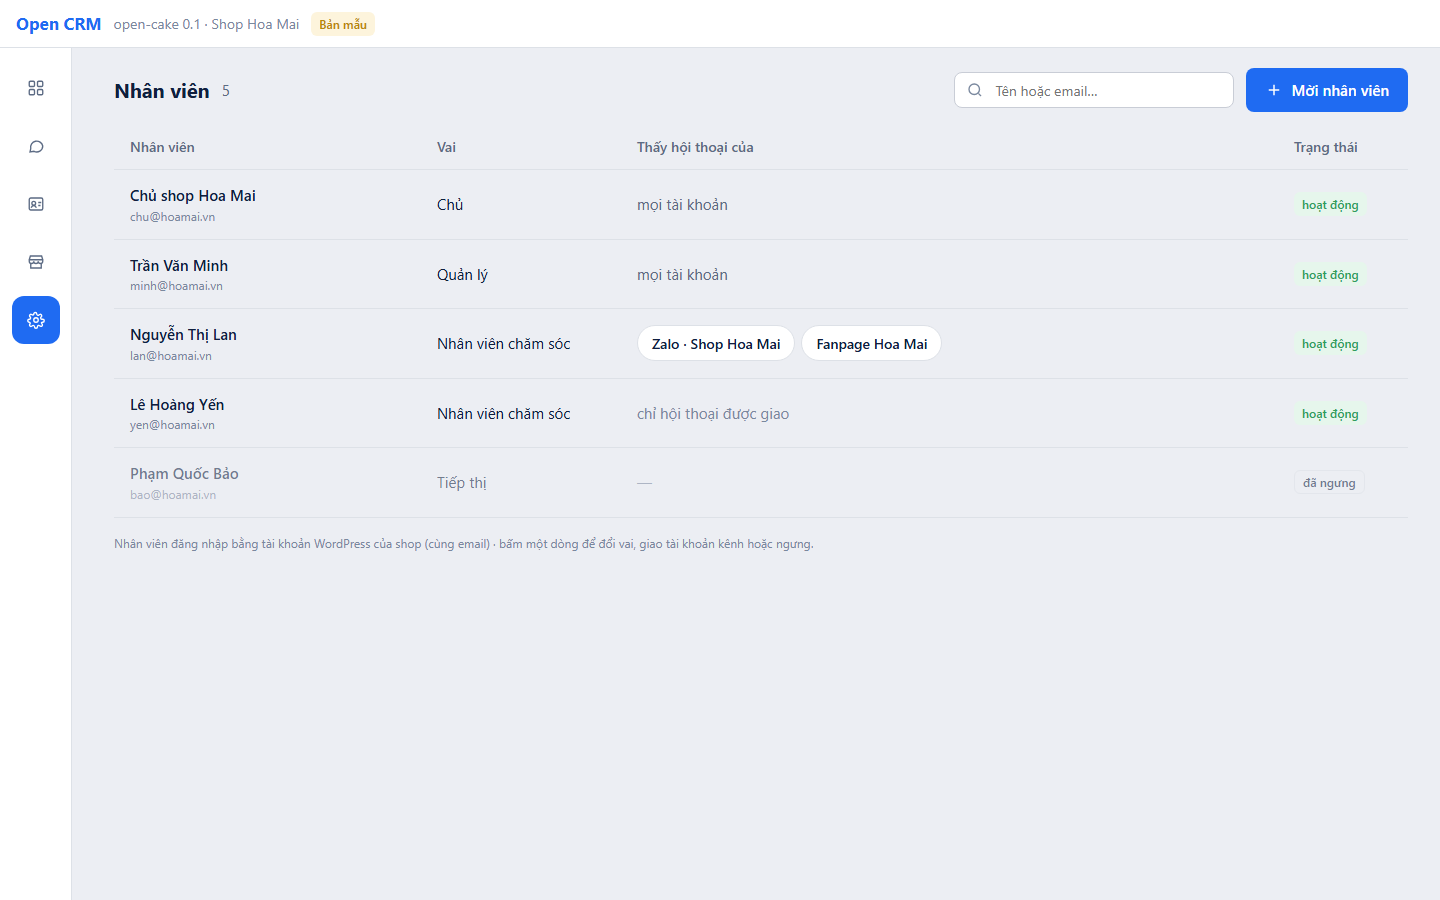
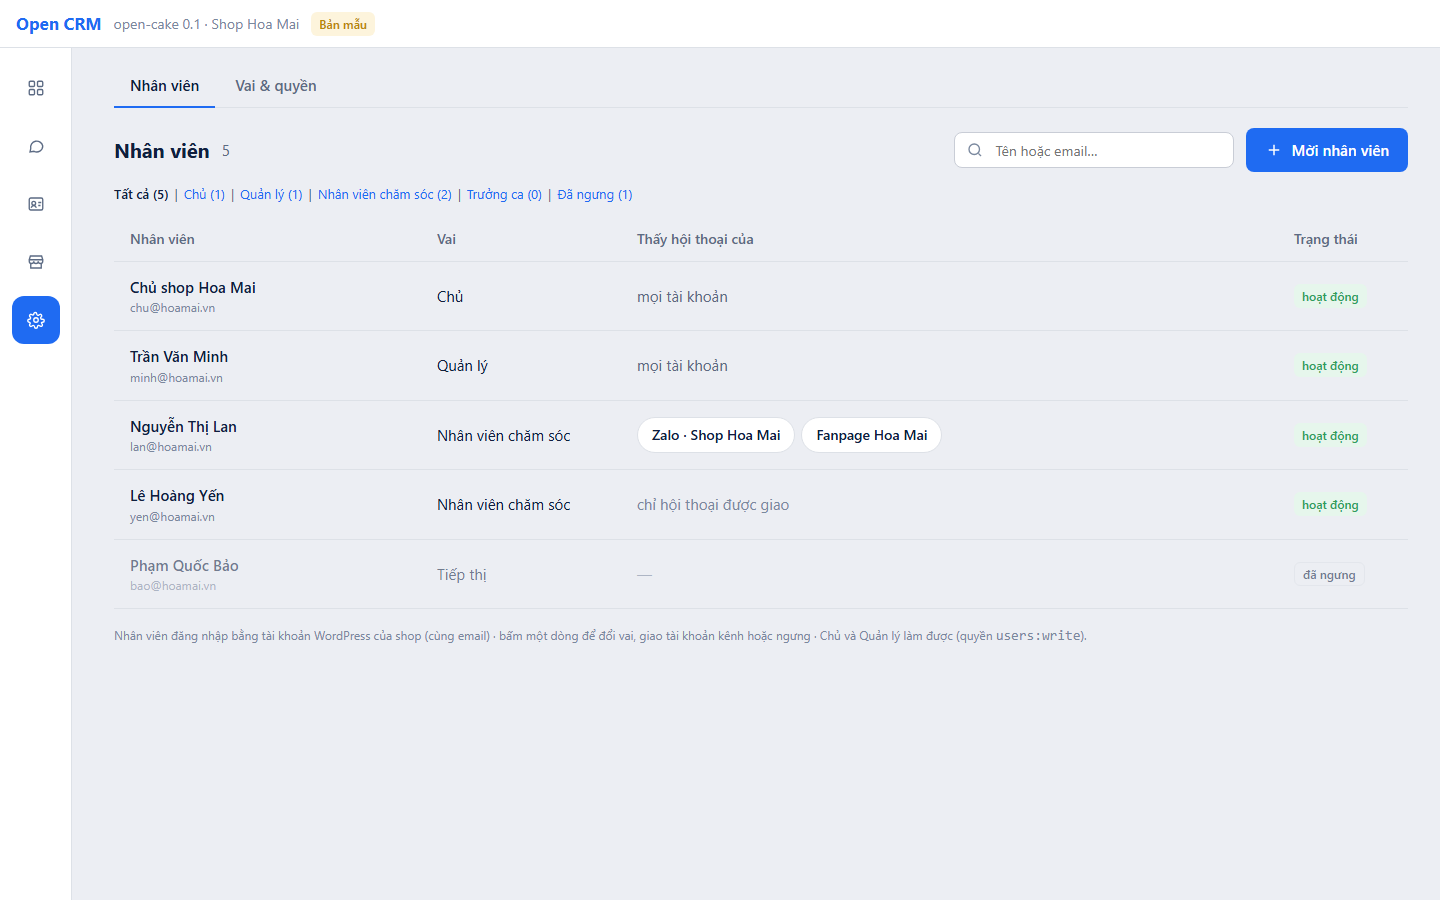
docs(PHASE-004 S004-7): thêm mockup Vai & quyền (ma trận, vai riêng) + thiết kế phân quyền ba lớp

diff --git a/docs/phases/PHASE-004-NGUOI-DUNG-QUYEN-BANG-CHUNG/mockup/index.html b/docs/phases/PHASE-004-NGUOI-DUNG-QUYEN-BANG-CHUNG/mockup/index.html
@@ -1,5 +1,5 @@
 <!doctype html>
-<!-- [2026-11-24 09:57 PM Johnny Chu - Chu Hoàng Anh] PHASE-004 S004-7 — mockup lean màn Cài đặt › Nhân viên cho chủ duyệt trước khi code: danh sách, sửa (vai + tài khoản kênh), ngưng, mời. Dùng tokens.css / chat.css thật; số liệu GIẢ LẬP. -->
+<!-- [2026-11-24 10:10 PM Johnny Chu - Chu Hoàng Anh] PHASE-004 S004-7 — mockup lean màn Cài đặt › Nhân viên cho chủ duyệt trước khi code: danh sách, sửa (vai + tài khoản kênh), ngưng, mời. Dùng tokens.css / chat.css thật; số liệu GIẢ LẬP. -->
 <html lang="vi">
 <head>
 <meta charset="utf-8">
@@ -59,6 +59,22 @@
   .hi { color: var(--warning); font-size: 12px; margin-left: 6px; }
   .who b { font-weight: 500; } .who .xs { display: block; }
   .chiprow { display: flex; gap: 6px; flex-wrap: wrap; }
+  .wpf { display: flex; gap: 6px; font-size: 13px; color: var(--muted-foreground); padding: 0 32px 12px; }
+  .wpf a { color: var(--primary); } .wpf b { color: var(--foreground); font-weight: 600; }
+  .utab.on { color: var(--foreground); border-bottom-color: var(--primary); }
+  .mx { width: 100%; border-collapse: collapse; font-size: 14px; }
+  .mx th, .mx td { padding: 8px 10px; border-bottom: 1px solid var(--border); text-align: center; }
+  .mx th:first-child, .mx td:first-child { text-align: left; }
+  .mx thead th { font-weight: 500; color: var(--muted-foreground); font-size: 13px; vertical-align: bottom; }
+  .mx thead th .xs { display: block; font-weight: 400; }
+  .mx .grp td { background: var(--muted); font-size: 12px; text-transform: uppercase; letter-spacing: .04em; color: var(--muted-foreground); font-weight: 600; text-align: left; padding: 5px 10px; }
+  .mx code { font-size: 11px; color: var(--subtle-foreground); margin-left: 6px; }
+  .mx .cus { background: var(--primary-soft); }
+  .c { display: inline-grid; place-items: center; width: 22px; height: 22px; border-radius: 6px; font-size: 13px; font-weight: 700; color: var(--subtle-foreground); }
+  .c.inh { color: var(--primary); }
+  .c.al { background: var(--primary); color: #fff; } .c.dn { background: var(--destructive); color: #fff; } .c.no { border: 1.5px solid var(--border); }
+  .legend { display: flex; gap: 16px; align-items: center; font-size: 12px; color: var(--muted-foreground); }
+  .legend span { display: inline-flex; gap: 6px; align-items: center; }
 </style>
 
 <!-- ① NHÂN VIÊN — một bảng: tên, vai, thấy hội thoại của, trạng thái. Không thẻ đếm, không nhóm, không "online". -->
@@ -67,12 +83,14 @@
   <div class="body">
     <nav class="rail2"><span class="nb"><svg class="ico"><use href="#i-grid"/></svg></span><span class="nb"><svg class="ico"><use href="#i-chat"/></svg></span><span class="nb"><svg class="ico"><use href="#i-contact"/></svg></span><span class="nb"><svg class="ico"><use href="#i-store"/></svg></span><span class="nb on"><svg class="ico"><use href="#i-cog"/></svg></span></nav>
     <main class="page flush">
+      <div style="padding:16px 32px 0"><div class="utabs"><span class="utab on">Nhân viên</span><span class="utab">Vai &amp; quyền</span></div></div>
       <div class="tbar">
         <h1 class="h2" style="margin:0">Nhân viên</h1><span class="muted">5</span>
         <span class="grow"></span>
         <div class="search" style="width:280px"><svg><use href="#i-search"/></svg><input class="input sm" placeholder="Tên hoặc email…"></div>
         <button class="btn pri"><svg class="ico"><use href="#i-plus"/></svg>Mời nhân viên</button>
       </div>
+      <div class="wpf"><b>Tất cả (5)</b> | <a>Chủ (1)</a> | <a>Quản lý (1)</a> | <a>Nhân viên chăm sóc (2)</a> | <a>Trưởng ca (0)</a> | <a>Đã ngưng (1)</a></div>
       <div style="padding:0 32px">
         <table class="tbl">
           <thead><tr><th>Nhân viên</th><th style="width:200px">Vai</th><th>Thấy hội thoại của</th><th style="width:130px">Trạng thái</th></tr></thead>
@@ -84,7 +102,7 @@
             <tr style="opacity:.55"><td class="who"><b>Phạm Quốc Bảo</b><span class="xs subtle">bao@hoamai.vn</span></td><td>Tiếp thị</td><td class="subtle">—</td><td><span class="badge out">đã ngưng</span></td></tr>
           </tbody>
         </table>
-        <div class="xs subtle mt16">Nhân viên đăng nhập bằng tài khoản WordPress của shop (cùng email) · bấm một dòng để đổi vai, giao tài khoản kênh hoặc ngưng.</div>
+        <div class="xs subtle mt16">Nhân viên đăng nhập bằng tài khoản WordPress của shop (cùng email) · bấm một dòng để đổi vai, giao tài khoản kênh hoặc ngưng · Chủ và Quản lý làm được (quyền <code>users:write</code>).</div>
       </div>
     </main>
   </div>
@@ -106,6 +124,7 @@
         <div class="role on"><span class="dot"></span><div><b>Nhân viên chăm sóc</b><div class="xs subtle">Đọc, trả lời, gắn nhãn hội thoại của tài khoản được giao.</div></div></div>
         <div class="role"><span class="dot"></span><div><b>Tiếp thị</b><div class="xs subtle">Danh bạ, hàng hoá, giá — không đọc nội dung tin.</div></div></div>
         <div class="role"><span class="dot"></span><div><b>Chỉ xem</b><div class="xs subtle">Danh bạ, báo cáo — không đọc nội dung tin.</div></div></div>
+        <div class="role"><span class="dot"></span><div><b>Trưởng ca</b> <span class="badge out">vai riêng</span><div class="xs subtle">Nhân viên chăm sóc + xuất danh bạ · cấm ghép khách.</div></div></div>
       </div>
       <label class="sm muted" style="display:block;margin-top:20px">Thấy hội thoại của</label>
       <div class="mt8">
@@ -161,6 +180,98 @@
       <div class="xs subtle mt16">Hoa vào Open CRM bằng tài khoản WordPress của shop có đúng email này — không cần mật khẩu riêng.</div>
     </div>
     <div class="ft"><button class="btn">Huỷ</button><button class="btn pri">Mời</button></div>
+  </div></div>
+</section>
+<!-- vai-quyen -->
+<section class="frame app" id="vai-quyen">
+  <header class="titlebar"><span class="brand">Open CRM</span><span class="ver">open-cake 0.1 · Shop Hoa Mai</span><span class="badge warn">Bản mẫu</span><span class="grow"></span></header>
+  <div class="body">
+    <nav class="rail2"><span class="nb"><svg class="ico"><use href="#i-grid"/></svg></span><span class="nb"><svg class="ico"><use href="#i-chat"/></svg></span><span class="nb"><svg class="ico"><use href="#i-contact"/></svg></span><span class="nb"><svg class="ico"><use href="#i-store"/></svg></span><span class="nb on"><svg class="ico"><use href="#i-cog"/></svg></span></nav>
+    <main class="page flush">
+      <div style="padding:16px 32px 0"><div class="utabs"><span class="utab">Nhân viên</span><span class="utab on">Vai &amp; quyền</span></div></div>
+      <div class="tbar">
+        <h1 class="h2" style="margin:0">Vai &amp; quyền</h1>
+        <span class="grow"></span>
+        <div class="legend"><span><span class="c">✓</span>vai hệ thống</span><span><span class="c inh">✓</span>từ vai nền</span><span><span class="c al">✓</span>Cho thêm</span><span><span class="c dn">⊘</span>Cấm (thắng)</span><span class="hi">⚠ rủi ro cao</span></div>
+        <button class="btn pri"><svg class="ico"><use href="#i-plus"/></svg>Vai riêng</button>
+      </div>
+      <div style="padding:0 32px">
+        <table class="mx">
+          <thead><tr><th>Quyền</th><th>Chủ</th><th>Quản lý</th><th>NV chăm sóc</th><th>Tiếp thị</th><th>Chỉ xem</th><th class="cus">Trưởng ca<span class="xs subtle">nền: NV chăm sóc</span></th></tr></thead>
+          <tbody>
+<tr class="grp"><td colspan="7">Hộp thư</td></tr>
+<tr><td>Xem hội thoại được giao<code>cake:inbox-xem</code></td><td><span class="c">✓</span></td><td><span class="c">✓</span></td><td><span class="c">✓</span></td><td><span class="c">·</span></td><td><span class="c">·</span></td><td class="cus"><span class="c inh">✓</span></td></tr>
+<tr><td>Trả lời, gắn nhãn<code>cake:inbox-lap</code></td><td><span class="c">✓</span></td><td><span class="c">✓</span></td><td><span class="c">✓</span></td><td><span class="c">·</span></td><td><span class="c">·</span></td><td class="cus"><span class="c inh">✓</span></td></tr>
+<tr><td>Xem mọi hộp thư <span class="hi">⚠</span><code>cake:all-inbox-xem</code></td><td><span class="c">✓</span></td><td><span class="c">✓</span></td><td><span class="c">·</span></td><td><span class="c">·</span></td><td><span class="c">·</span></td><td class="cus"><span class="c no"></span></td></tr>
+<tr class="grp"><td colspan="7">Danh bạ</td></tr>
+<tr><td>Xem khách<code>cake:contacts-xem</code></td><td><span class="c">✓</span></td><td><span class="c">✓</span></td><td><span class="c">✓</span></td><td><span class="c">✓</span></td><td><span class="c">✓</span></td><td class="cus"><span class="c inh">✓</span></td></tr>
+<tr><td>Sửa khách<code>cake:contacts-sua</code></td><td><span class="c">✓</span></td><td><span class="c">✓</span></td><td><span class="c">✓</span></td><td><span class="c">✓</span></td><td><span class="c">·</span></td><td class="cus"><span class="c inh">✓</span></td></tr>
+<tr><td>Ghép / tách khách <span class="hi">⚠</span><code>cake:contacts-gop</code></td><td><span class="c">✓</span></td><td><span class="c">✓</span></td><td><span class="c">·</span></td><td><span class="c">·</span></td><td><span class="c">·</span></td><td class="cus"><span class="c dn">⊘</span></td></tr>
+<tr><td>Xuất danh bạ <span class="hi">⚠</span><code>cake:contacts-xuat</code></td><td><span class="c">✓</span></td><td><span class="c">✓</span></td><td><span class="c">·</span></td><td><span class="c">·</span></td><td><span class="c">·</span></td><td class="cus"><span class="c al">✓</span></td></tr>
+<tr class="grp"><td colspan="7">Hàng hoá</td></tr>
+<tr><td>Thêm, sửa hàng<code>cake:catalog-lap</code></td><td><span class="c">✓</span></td><td><span class="c">✓</span></td><td><span class="c">·</span></td><td><span class="c">✓</span></td><td><span class="c">·</span></td><td class="cus"><span class="c no"></span></td></tr>
+<tr><td>Sửa giá<code>cake:catalog-gia</code></td><td><span class="c">✓</span></td><td><span class="c">✓</span></td><td><span class="c">·</span></td><td><span class="c">✓</span></td><td><span class="c">·</span></td><td class="cus"><span class="c no"></span></td></tr>
+<tr class="grp"><td colspan="7">Kênh & nhân viên</td></tr>
+<tr><td>Kết nối kênh <span class="hi">⚠</span><code>cake:channels-lap</code></td><td><span class="c">✓</span></td><td><span class="c">·</span></td><td><span class="c">·</span></td><td><span class="c">·</span></td><td><span class="c">·</span></td><td class="cus"><span class="c no"></span></td></tr>
+<tr><td>Mời, đổi vai, giao tài khoản kênh <span class="hi">⚠</span><code>users:write</code></td><td><span class="c">✓</span></td><td><span class="c">✓</span></td><td><span class="c">·</span></td><td><span class="c">·</span></td><td><span class="c">·</span></td><td class="cus"><span class="c no"></span></td></tr>
+<tr><td>Sửa vai &amp; quyền <span class="hi">⚠</span><code>settings:write</code></td><td><span class="c">✓</span></td><td><span class="c">·</span></td><td><span class="c">·</span></td><td><span class="c">·</span></td><td><span class="c">·</span></td><td class="cus"><span class="c no"></span></td></tr>
+          </tbody>
+        </table>
+        <div class="xs subtle mt16">Vai hệ thống do phần mềm khai (mỗi phân hệ đăng ký quyền + vai lúc khởi động) — chỉ xem ở đây. Muốn khác: tạo <b>vai riêng</b> dựa trên một vai hệ thống, rồi bấm ô của cột đó để Cho / Cấm. Khoá API và AI không bao giờ nhận quyền ⚠.</div>
+      </div>
+    </main>
+  </div>
+</section>
+
+<!-- vai-rieng -->
+<section class="frame app" id="vai-rieng">
+  <header class="titlebar"><span class="brand">Open CRM</span><span class="ver">open-cake 0.1 · Shop Hoa Mai</span><span class="badge warn">Bản mẫu</span><span class="grow"></span></header>
+  <div class="body">
+    <nav class="rail2"><span class="nb"><svg class="ico"><use href="#i-grid"/></svg></span><span class="nb"><svg class="ico"><use href="#i-chat"/></svg></span><span class="nb"><svg class="ico"><use href="#i-contact"/></svg></span><span class="nb"><svg class="ico"><use href="#i-store"/></svg></span><span class="nb on"><svg class="ico"><use href="#i-cog"/></svg></span></nav>
+    <main class="page flush" style="opacity:.35">
+      <div style="padding:16px 32px 0"><div class="utabs"><span class="utab">Nhân viên</span><span class="utab on">Vai &amp; quyền</span></div></div>
+      <div class="tbar">
+        <h1 class="h2" style="margin:0">Vai &amp; quyền</h1>
+        <span class="grow"></span>
+        <div class="legend"><span><span class="c">✓</span>vai hệ thống</span><span><span class="c inh">✓</span>từ vai nền</span><span><span class="c al">✓</span>Cho thêm</span><span><span class="c dn">⊘</span>Cấm (thắng)</span><span class="hi">⚠ rủi ro cao</span></div>
+        <button class="btn pri"><svg class="ico"><use href="#i-plus"/></svg>Vai riêng</button>
+      </div>
+      <div style="padding:0 32px">
+        <table class="mx">
+          <thead><tr><th>Quyền</th><th>Chủ</th><th>Quản lý</th><th>NV chăm sóc</th><th>Tiếp thị</th><th>Chỉ xem</th><th class="cus">Trưởng ca<span class="xs subtle">nền: NV chăm sóc</span></th></tr></thead>
+          <tbody>
+<tr class="grp"><td colspan="7">Hộp thư</td></tr>
+<tr><td>Xem hội thoại được giao<code>cake:inbox-xem</code></td><td><span class="c">✓</span></td><td><span class="c">✓</span></td><td><span class="c">✓</span></td><td><span class="c">·</span></td><td><span class="c">·</span></td><td class="cus"><span class="c inh">✓</span></td></tr>
+<tr><td>Trả lời, gắn nhãn<code>cake:inbox-lap</code></td><td><span class="c">✓</span></td><td><span class="c">✓</span></td><td><span class="c">✓</span></td><td><span class="c">·</span></td><td><span class="c">·</span></td><td class="cus"><span class="c inh">✓</span></td></tr>
+<tr><td>Xem mọi hộp thư <span class="hi">⚠</span><code>cake:all-inbox-xem</code></td><td><span class="c">✓</span></td><td><span class="c">✓</span></td><td><span class="c">·</span></td><td><span class="c">·</span></td><td><span class="c">·</span></td><td class="cus"><span class="c no"></span></td></tr>
+<tr class="grp"><td colspan="7">Danh bạ</td></tr>
+<tr><td>Xem khách<code>cake:contacts-xem</code></td><td><span class="c">✓</span></td><td><span class="c">✓</span></td><td><span class="c">✓</span></td><td><span class="c">✓</span></td><td><span class="c">✓</span></td><td class="cus"><span class="c inh">✓</span></td></tr>
+<tr><td>Sửa khách<code>cake:contacts-sua</code></td><td><span class="c">✓</span></td><td><span class="c">✓</span></td><td><span class="c">✓</span></td><td><span class="c">✓</span></td><td><span class="c">·</span></td><td class="cus"><span class="c inh">✓</span></td></tr>
+<tr><td>Ghép / tách khách <span class="hi">⚠</span><code>cake:contacts-gop</code></td><td><span class="c">✓</span></td><td><span class="c">✓</span></td><td><span class="c">·</span></td><td><span class="c">·</span></td><td><span class="c">·</span></td><td class="cus"><span class="c dn">⊘</span></td></tr>
+<tr><td>Xuất danh bạ <span class="hi">⚠</span><code>cake:contacts-xuat</code></td><td><span class="c">✓</span></td><td><span class="c">✓</span></td><td><span class="c">·</span></td><td><span class="c">·</span></td><td><span class="c">·</span></td><td class="cus"><span class="c al">✓</span></td></tr>
+<tr class="grp"><td colspan="7">Hàng hoá</td></tr>
+<tr><td>Thêm, sửa hàng<code>cake:catalog-lap</code></td><td><span class="c">✓</span></td><td><span class="c">✓</span></td><td><span class="c">·</span></td><td><span class="c">✓</span></td><td><span class="c">·</span></td><td class="cus"><span class="c no"></span></td></tr>
+<tr><td>Sửa giá<code>cake:catalog-gia</code></td><td><span class="c">✓</span></td><td><span class="c">✓</span></td><td><span class="c">·</span></td><td><span class="c">✓</span></td><td><span class="c">·</span></td><td class="cus"><span class="c no"></span></td></tr>
+<tr class="grp"><td colspan="7">Kênh & nhân viên</td></tr>
+<tr><td>Kết nối kênh <span class="hi">⚠</span><code>cake:channels-lap</code></td><td><span class="c">✓</span></td><td><span class="c">·</span></td><td><span class="c">·</span></td><td><span class="c">·</span></td><td><span class="c">·</span></td><td class="cus"><span class="c no"></span></td></tr>
+<tr><td>Mời, đổi vai, giao tài khoản kênh <span class="hi">⚠</span><code>users:write</code></td><td><span class="c">✓</span></td><td><span class="c">✓</span></td><td><span class="c">·</span></td><td><span class="c">·</span></td><td><span class="c">·</span></td><td class="cus"><span class="c no"></span></td></tr>
+<tr><td>Sửa vai &amp; quyền <span class="hi">⚠</span><code>settings:write</code></td><td><span class="c">✓</span></td><td><span class="c">·</span></td><td><span class="c">·</span></td><td><span class="c">·</span></td><td><span class="c">·</span></td><td class="cus"><span class="c no"></span></td></tr>
+          </tbody>
+        </table>
+        <div class="xs subtle mt16">Vai hệ thống do phần mềm khai (mỗi phân hệ đăng ký quyền + vai lúc khởi động) — chỉ xem ở đây. Muốn khác: tạo <b>vai riêng</b> dựa trên một vai hệ thống, rồi bấm ô của cột đó để Cho / Cấm. Khoá API và AI không bao giờ nhận quyền ⚠.</div>
+      </div>
+    </main>
+  </div>
+  <div class="sheet-bg"><div class="sheet" role="dialog" style="max-width:560px">
+    <div class="hd"><div class="grow"><h2 class="h2">Vai riêng mới</h2></div><button class="menu-dots"><svg class="ico"><use href="#i-x"/></svg></button></div>
+    <div class="bd">
+      <div class="row gap16">
+        <div class="grow"><label class="sm muted">Tên vai *</label><input class="input mt8" value="Trưởng ca"></div>
+        <div class="grow"><label class="sm muted">Dựa trên *</label><select class="input mt8"><option>Nhân viên chăm sóc</option></select></div>
+      </div>
+      <div class="xs subtle mt16">Vai mới có đúng quyền của vai nền; sau đó Cho / Cấm thêm từng quyền ở ma trận. Không xoá vai — chỉ tắt; đổi vai nền = tạo vai mới.</div>
+    </div>
+    <div class="ft"><button class="btn">Huỷ</button><button class="btn pri">Tạo vai</button></div>
   </div></div>
 </section>
 </body>

diff --git a/docs/phases/PHASE-004-NGUOI-DUNG-QUYEN-BANG-CHUNG/README.md b/docs/phases/PHASE-004-NGUOI-DUNG-QUYEN-BANG-CHUNG/README.md
@@ -30,9 +30,24 @@
 | S004-6 | ☑ | mỗi lệnh ghi = một dòng `audit_logs` (chuỗi băm của nền) cùng giao dịch; thất bại ghi `result_ok=false` sau khi quay lui; gửi lặp ⇒ `meta.replayed`, không thêm; `meta.receipt`; `GET /api/v1/evidence/:id` (`reports:read`); không lưu nội dung, chỉ `sha256` đầu vào — `apps/api/test/evidence.http.test.ts` |
 | R-WEB-7 | ☑ | `useCan` + quyền từ `/auth/me`: nút ghi khoá **kèm lý do** (Thêm hàng, giá, Bán trong CRM, lưu hàng, nhãn, gửi / trả lời, Ghép, Tách); ảnh `quyen-viewer-hang-hoa`, `quyen-viewer-hop-thu` |
 | S004-5 | ☑ | bảng `channel_account_members` (0104, RLS FORCE); quyền `cake:all-inbox-xem` (rủi ro cao — manager / owner); một chỗ quyết phạm vi `apps/api/src/care/scope.ts`: danh sách kênh / hội thoại lọc theo tài khoản được giao **hoặc** hội thoại được giao; đọc tin, gắn nhãn, giao trên hội thoại ngoài phạm vi ⇒ 404; dòng thời gian vẫn hiện chạm nhưng **ẩn nội dung tin**; `cake.channel.members` / `members_set` (chỉ nhận nhân viên đang hoạt động của đơn vị) — `apps/api/test/scope.http.test.ts` (5 ca) |
-| S004-7 | ☐ | màn Cài đặt › Nhân viên (cần mockup) |
+| S004-7 | ◐ | mockup chờ duyệt: [mockup/index.html](mockup/index.html) — ảnh `mockup-nhan-vien`, `mockup-sua-nhan-vien`, `mockup-ngung`, `mockup-moi`, `mockup-vai-quyen`, `mockup-vai-rieng` |
 
 Ảnh: [evidence/build-shots](evidence/build-shots/) `dang-nhap-dev-hop-thu`, `can-dang-nhap`. Test: `apps/api/test/auth.http.test.ts` (6 ca).
+
+## Thiết kế phân quyền (S004-7)
+
+<!-- [2026-11-24 10:10 PM Johnny Chu - Chu Hoàng Anh] PHASE-004 S004-7 — chủ chốt: vai + ma trận, đăng ký bằng hook như open-ketoan, người dùng kiểu WordPress. -->
+
+Ba lớp, đều là **cổng của nền** (`@bizcity/platform`), Cake không tự làm bộ tính quyền:
+
+| Lớp | Ở đâu | Ai đổi |
+|---|---|---|
+| **Sổ quyền + vai hệ thống** | đăng ký bằng hook lúc khởi động: `registerModulePermissions` · `registerRoles` · `registerApiScopes` (như open-ketoan; giống `add_role` / `add_cap` của WordPress). Quyền Cake SINH từ action spec | lập trình viên (PR) — màn chỉ xem |
+| **Vai riêng của đơn vị** | `tenant_roles` (dựa trên một vai hệ thống, không bao giờ `owner`) + `tenant_role_rules` Cho / Cấm từng quyền — **Cấm thắng**; không xoá, chỉ tắt; đổi ⇒ `authz_version`++ ⇒ mọi phiên tính lại | chủ (`settings:write`) ở ma trận **Vai & quyền** |
+| **Người dùng** | `users` (vào bằng SSO WordPress cùng email — như WP Users: một vai chính) + `user_role_assignments` (vai thêm / vai riêng) + `channel_account_members` | chủ **và quản lý** (`users:write`) ở màn **Nhân viên** |
+
+- Quản lý có `users:write`: mời, đổi vai, ngưng, giao tài khoản kênh — **không** cấp / sửa / ngưng vai Chủ, không cấp vai cao hơn mình. `cake.channel.members_set` chuyển từ `cake:channels-lap` sang `users:write`.
+- Khoá API và AI không bao giờ nhận quyền ⚠ (nền lọc).
 
 ## Xong khi
 
